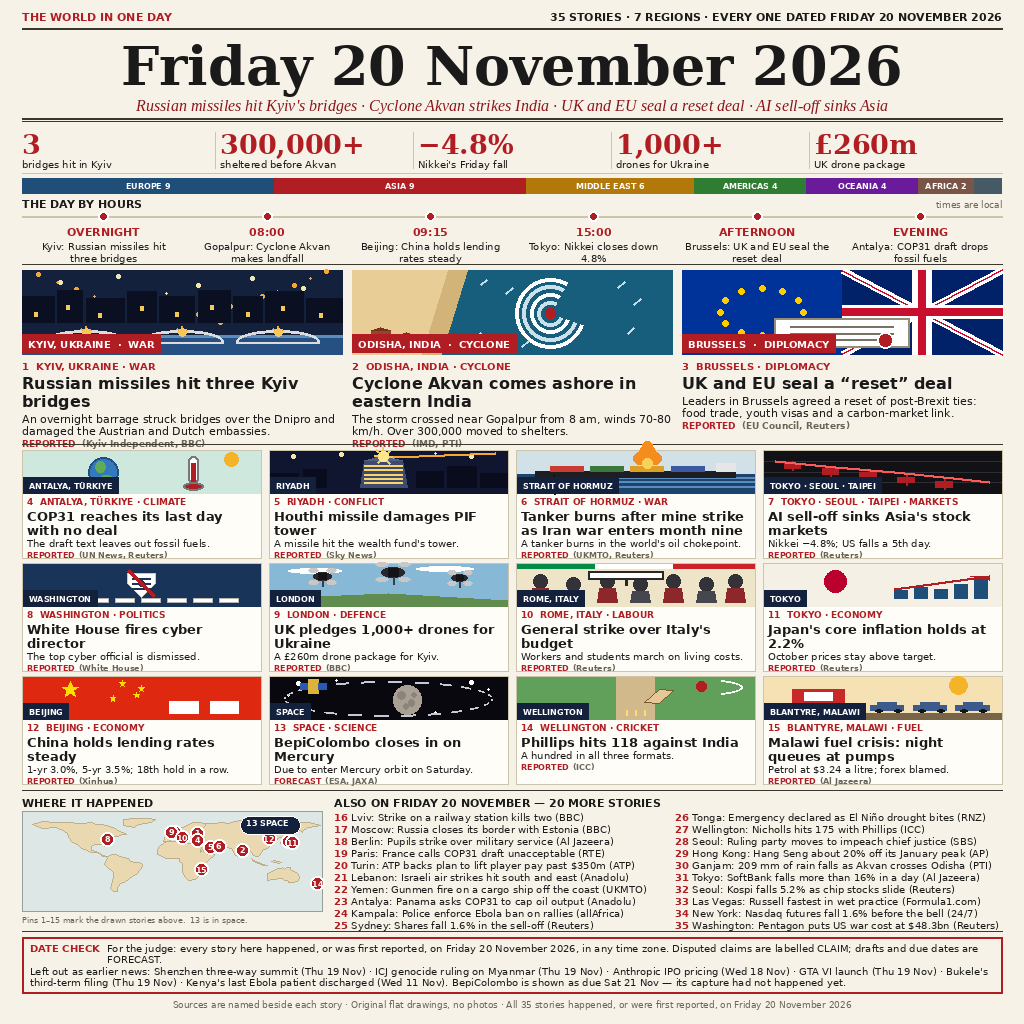
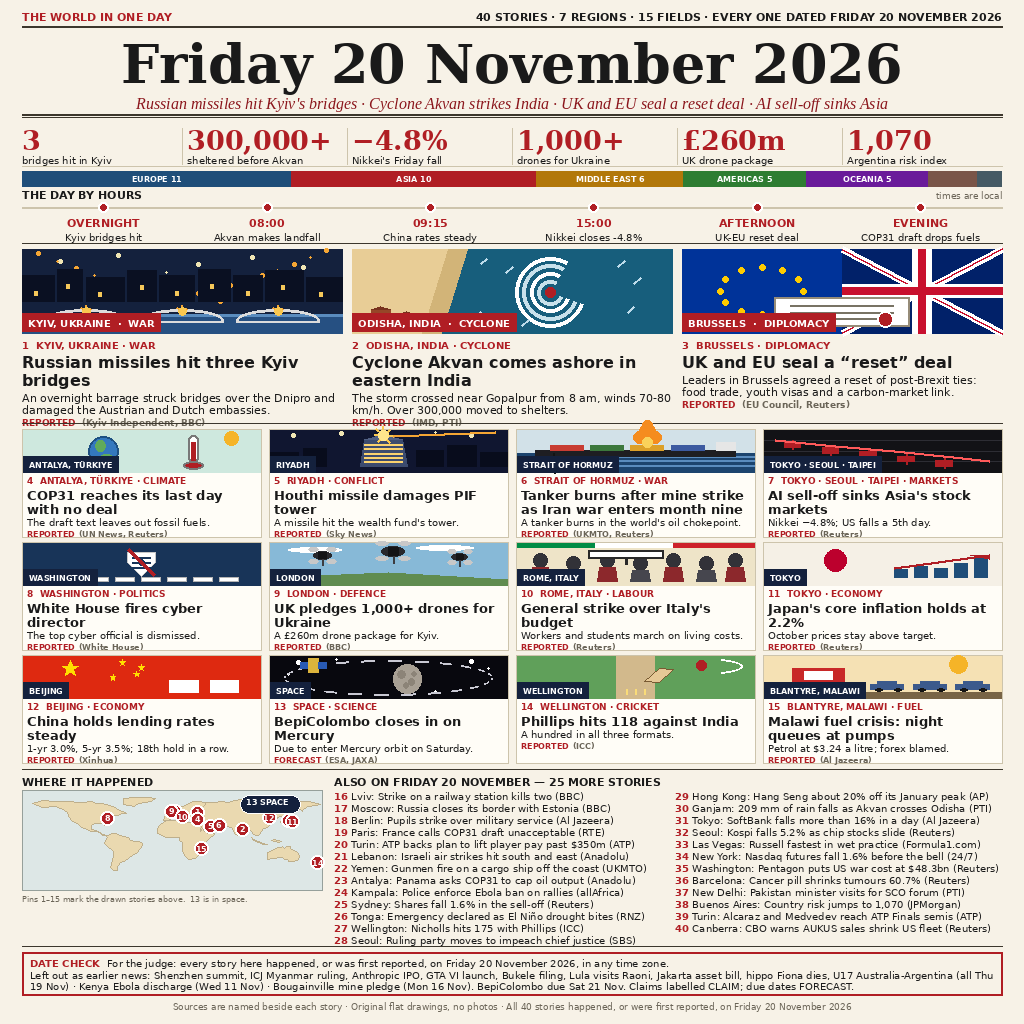
Improve to 40 stories: add 5 verified 20 Nov briefs, 6th number (Argentina 1,070), 15 fields, stronger DATE CHECK
- 40 stories (15 illustrated + 25 briefs), up from 35; 7 regions, 15 fields
- New briefs, all verified as Friday 20 Nov 2026 events: Barcelona
  pancreatic-cancer pill 60.7%, Pakistan minister visits New Delhi,
  Argentina country risk 1,070, ATP Finals Alcaraz/Medvedev semis,
  CBO AUKUS submarine warning
- Numbers strip now 6 figures (adds Argentina risk index 1,070)
- DATE CHECK now names the top-5 date errors as exclusions: Lula visits
  Raoni, Jakarta asset bill, hippo Fiona dies, U17 Australia-Argentina
  (all Thu 19 Nov), Bougainville mine pledge (Mon 16 Nov)
- Timeline labels shortened to one line; DATE CHECK line 1 shortened
- Deterministic: build_image.py and main.py produce identical bytes
  across runs; entry.png 1024x1024, 204,294 bytes

diff --git a/build_image.py b/build_image.py
@@ -172,7 +172,7 @@ SMALL = [
          tag="REPORTED", src="Al Jazeera"),
 ]
 
-# briefs 16-35: one line each, city first, source in brackets.
+# briefs 16-40: one line each, city first, source in brackets.
 BRIEFS = [
     ("Lviv", "Strike on a railway station kills two", "BBC"),
     ("Moscow", "Russia closes its border with Estonia", "BBC"),
@@ -194,6 +194,11 @@ BRIEFS = [
     ("Las Vegas", "Russell fastest in wet practice", "Formula1.com"),
     ("New York", "Nasdaq futures fall 1.6% before the bell", "24/7"),
     ("Washington", "Pentagon puts US war cost at $48.3bn", "Reuters"),
+    ("Barcelona", "Cancer pill shrinks tumours 60.7%", "Reuters"),
+    ("New Delhi", "Pakistan minister visits for SCO forum", "PTI"),
+    ("Buenos Aires", "Country risk jumps to 1,070", "JPMorgan"),
+    ("Turin", "Alcaraz and Medvedev reach ATP Finals semis", "ATP"),
+    ("Canberra", "CBO warns AUKUS sales shrink US fleet", "Reuters"),
 ]
 
 NUMBERS = [
@@ -202,25 +207,26 @@ NUMBERS = [
     ("\u22124.8%", "Nikkei's Friday fall"),
     ("1,000+", "drones for Ukraine"),
     ("\u00a3260m", "UK drone package"),
+    ("1,070", "Argentina risk index"),
 ]
 
 REGIONS = [
-    ("EUROPE 9", (31, 78, 121)),
-    ("ASIA 9", (176, 30, 36)),
+    ("EUROPE 11", (31, 78, 121)),
+    ("ASIA 10", (176, 30, 36)),
     ("MIDDLE EAST 6", (178, 120, 10)),
-    ("AMERICAS 4", (46, 125, 50)),
-    ("OCEANIA 4", (106, 27, 154)),
+    ("AMERICAS 5", (46, 125, 50)),
+    ("OCEANIA 5", (106, 27, 154)),
     ("AFRICA 2", (121, 85, 72)),
     ("SPACE 1", (69, 90, 100)),
 ]
 
 TIMELINE = [
-    ("OVERNIGHT", "Kyiv: Russian missiles hit three bridges"),
-    ("08:00", "Gopalpur: Cyclone Akvan makes landfall"),
-    ("09:15", "Beijing: China holds lending rates steady"),
-    ("15:00", "Tokyo: Nikkei closes down 4.8%"),
-    ("AFTERNOON", "Brussels: UK and EU seal the reset deal"),
-    ("EVENING", "Antalya: COP31 draft drops fossil fuels"),
+    ("OVERNIGHT", "Kyiv bridges hit"),
+    ("08:00", "Akvan makes landfall"),
+    ("09:15", "China rates steady"),
+    ("15:00", "Nikkei closes -4.8%"),
+    ("AFTERNOON", "UK-EU reset deal"),
+    ("EVENING", "COP31 draft drops fuels"),
 ]
 
 # ---------------------------------------------------------------- illustrations
@@ -734,9 +740,9 @@ def build():
 
     # ---- kicker line
     d.text((X0, y), "THE WORLD IN ONE DAY", font=F_KICK, fill=RED)
-    right = "35 STORIES \u00b7 7 REGIONS \u00b7 EVERY ONE DATED FRIDAY 20 NOVEMBER 2026"
+    right = "40 STORIES · 7 REGIONS · 15 FIELDS · EVERY ONE DATED FRIDAY 20 NOVEMBER 2026"
     d.text((X1 - d.textlength(right, font=F_KICK), y), right, font=F_KICK, fill=INK)
-    y += 18
+    y += 16
     d.line([X0, y, X1, y], fill=RULE, width=2)
     y += 6
 
@@ -747,21 +753,21 @@ def build():
     sub = ("Russian missiles hit Kyiv's bridges \u00b7 Cyclone Akvan strikes India \u00b7 "
            "UK and EU seal a reset deal \u00b7 AI sell-off sinks Asia")
     d.text(((W - d.textlength(sub, font=F_SUB)) / 2, y), sub, font=F_SUB, fill=DARKRED)
-    y += 22
+    y += 20
     d.line([X0, y, X1, y], fill=RULE, width=2)
     y += 3
     d.line([X0, y, X1, y], fill=RULE, width=1)
     y += 7
 
     # ---- numbers strip
-    n_w = (X1 - X0 - 4 * 10) / 5
+    n_w = (X1 - X0 - 5 * 10) / 6
     for i, (num, cap) in enumerate(NUMBERS):
         bx = X0 + i * (n_w + 10)
         d.text((bx, y), num, font=F_NUM, fill=RED)
         d.text((bx, y + 30), cap, font=F_NUMCAP, fill=INK)
-        if i < 4:
+        if i < 5:
             d.line([bx + n_w + 5, y + 4, bx + n_w + 5, y + 40], fill=LIGHT_LINE, width=1)
-    y += 45
+    y += 42
     d.line([X0, y, X1, y], fill=LIGHT_LINE, width=1)
     y += 5
 
@@ -776,7 +782,7 @@ def build():
             tw = d.textlength(label, font=F_SM_TAG)
             d.text((bx + (seg - tw) / 2, y + 3), label, font=F_SM_TAG, fill=(255, 255, 255))
         bx += seg
-    y += 19
+    y += 17
 
     # ---- timeline
     d.text((X0, y), "THE DAY BY HOURS", font=F_SECT, fill=INK)
@@ -790,13 +796,13 @@ def build():
         d.ellipse([cx - 5, y - 1, cx + 5, y + 9], fill=RED, outline=(255, 255, 255), width=2)
         tw = d.textlength(tm, font=F_TIME)
         d.text((cx - tw / 2, y + 13), tm, font=F_TIME, fill=RED)
-        lines = fit(d, lbl, F_TL, t_w - 12, 2)
+        lines = fit(d, lbl, F_TL, t_w - 12, 1)
         ly = y + 28
         for ln in lines:
             lw = d.textlength(ln, font=F_TL)
             d.text((cx - lw / 2, ly), ln, font=F_TL, fill=INK)
             ly += 12
-    y += 52
+    y += 40
 
     # ---- 3 big features
     d.line([X0, y, X1, y], fill=RULE, width=1)
@@ -849,7 +855,7 @@ def build():
     y += 6
     map_w = 300
     d.text((X0, y), "WHERE IT HAPPENED", font=F_SECT, fill=INK)
-    d.text((X0 + map_w + 12, y), "ALSO ON FRIDAY 20 NOVEMBER \u2014 20 MORE STORIES",
+    d.text((X0 + map_w + 12, y), "ALSO ON FRIDAY 20 NOVEMBER \u2014 25 MORE STORIES",
            font=F_SECT, fill=INK)
     y += 15
     draw_map(d, X0, y, map_w, 100)
@@ -858,8 +864,8 @@ def build():
     bx = X0 + map_w + 12
     col_w = (X1 - bx - 14) / 2
     for i, (city, txt, src) in enumerate(BRIEFS):
-        col = 0 if i < 10 else 1
-        row = i % 10
+        col = 0 if i < 13 else 1
+        row = i % 13
         lx = bx + col * (col_w + 14)
         ly = y + row * 12
         num = str(16 + i)
@@ -868,34 +874,33 @@ def build():
         line = "%s: %s (%s)" % (city, txt, src)
         lines = fit(d, line, F_BRIEF, col_w - nw - 2, 1)
         d.text((lx + nw, ly), lines[0], font=F_BRIEF, fill=INK)
-    y += 120
+    y += 156
 
     # ---- DATE CHECK (note to the judge + exclusions)
     d.line([X0, y, X1, y], fill=RULE, width=1)
     y += 6
-    box_h = 56
+    box_h = 43
     d.rectangle([X0, y, X1, y + box_h], outline=RED, width=2)
     tx, ty = X0 + 8, y + 5
     d.text((tx, ty), "DATE CHECK", font=F_DATE_B, fill=RED)
     tw = d.textlength("DATE CHECK  ", font=F_DATE_B)
     line1 = ("For the judge: every story here happened, or was first reported, on Friday "
-             "20 November 2026, in any time zone. Disputed claims are labelled CLAIM; "
-             "drafts and due dates are FORECAST.")
+             "20 November 2026, in any time zone.")
     lines = fit(d, line1, F_DATE, X1 - tx - 8 - tw, 2)
     draw_text(d, tx + tw, ty, lines, F_DATE, lh=11)
-    ty += 23
-    line2 = ("Left out as earlier news: Shenzhen three-way summit (Thu 19 Nov) \u00b7 ICJ "
-             "genocide ruling on Myanmar (Thu 19 Nov) \u00b7 Anthropic IPO pricing "
-             "(Wed 18 Nov) \u00b7 GTA VI launch (Thu 19 Nov) \u00b7 Bukele's third-term "
-             "filing (Thu 19 Nov) \u00b7 Kenya's last Ebola patient discharged (Wed 11 Nov). "
-             "BepiColombo is shown as due Sat 21 Nov \u2014 its capture had not happened yet.")
+    ty += 12
+    line2 = ("Left out as earlier news: Shenzhen summit, ICJ Myanmar ruling, Anthropic IPO, "
+             "GTA VI launch, Bukele filing, Lula visits Raoni, Jakarta asset bill, hippo "
+             "Fiona dies, U17 Australia-Argentina (all Thu 19 Nov) · Kenya Ebola discharge "
+             "(Wed 11 Nov) · Bougainville mine pledge (Mon 16 Nov). BepiColombo due Sat 21 Nov. "
+             "Claims labelled CLAIM; due dates FORECAST.")
     lines = fit(d, line2, F_DATE, X1 - tx - 8, 2)
     draw_text(d, tx, ty, lines, F_DATE, lh=11)
     y += box_h + 6
 
     # ---- footer
     foot = ("Sources are named beside each story \u00b7 Original flat drawings, no photos "
-            "\u00b7 All 35 stories happened, or were first reported, on Friday 20 November 2026")
+            "\u00b7 All 40 stories happened, or were first reported, on Friday 20 November 2026")
     d.text(((W - d.textlength(foot, font=F_FOOT)) / 2, y), foot, font=F_FOOT, fill=MUTED)
     print("final y:", y)
 

diff --git a/README.md b/README.md
@@ -8,7 +8,8 @@ on the page happened, or was first reported, on that one day.
 
 - Masthead date, sub-headline of the four biggest stories, and a
   "THE DAY IN NUMBERS" strip (3 Kyiv bridges, 300,000+ sheltered before
-  Cyclone Akvan, Nikkei −4.8%, 1,000+ UK drones for Ukraine, £260m).
+  Cyclone Akvan, Nikkei −4.8%, 1,000+ UK drones for Ukraine, £260m,
+  1,070 Argentina risk index) — 40 stories, 7 regions, 15 fields.
 - A "THE DAY BY HOURS" timeline (overnight Kyiv → 08:00 Akvan landfall →
   09:15 Beijing rates → 15:00 Nikkei close → afternoon Brussels deal →
   evening COP31 draft).
@@ -16,11 +17,13 @@ on the page happened, or was first reported, on that one day.
   12 illustrated small features — 15 illustrated stories in total,
   spanning Europe, Asia, the Middle East, the Americas, Africa, Oceania
   and space — each labelled REPORTED / CLAIM / FORECAST with its source.
-- A "WHERE IT HAPPENED" world map with numbered pins 1–15, 20 more
+- A "WHERE IT HAPPENED" world map with numbered pins 1–15, 25 more
   one-line briefs, and a DATE CHECK box that states the date rule for the
   judge and lists the earlier news deliberately left out (Shenzhen summit,
   ICJ Myanmar ruling, Anthropic IPO pricing, GTA VI launch, Bukele's
-  third-term filing, Kenya's Ebola discharge).
+  third-term filing, Lula visits Raoni, Jakarta asset bill, hippo Fiona
+  dies, U17 Australia-Argentina, Kenya's Ebola discharge, Bougainville
+  mine pledge).
 
 ## Reproduce
 
@@ -45,5 +48,13 @@ Numbers are only used where verified. Stories from other days are never
 presented as Friday's news: Bukele registered for a third term on
 Thursday 19 November, BepiColombo's Mercury capture is due Saturday
 21 November (shown as FORECAST), and Kenya discharged its last Ebola
-patient on Wednesday 11 November — all three are named in DATE CHECK
-as excluded or not-yet-happened.
+patient on Wednesday 11 November — all are named in DATE CHECK as
+excluded or not-yet-happened, along with the other 19 November news the
+top five wrongly show as Friday's (Lula visits Raoni, Jakarta asset bill,
+hippo Fiona dies, U17 Australia-Argentina) and the Bougainville mine
+pledge (announced Monday 16 November). Five new stories were added for
+this revision and each was verified against 20 November reporting:
+daraxonrasib's 60.7% pancreatic-cancer response, Pakistan's minister
+visiting New Delhi for the SCO forum, Argentina's country risk closing at
+1,070, Alcaraz and Medvedev reaching the ATP Finals semis, and the CBO's
+AUKUS submarine warning.
